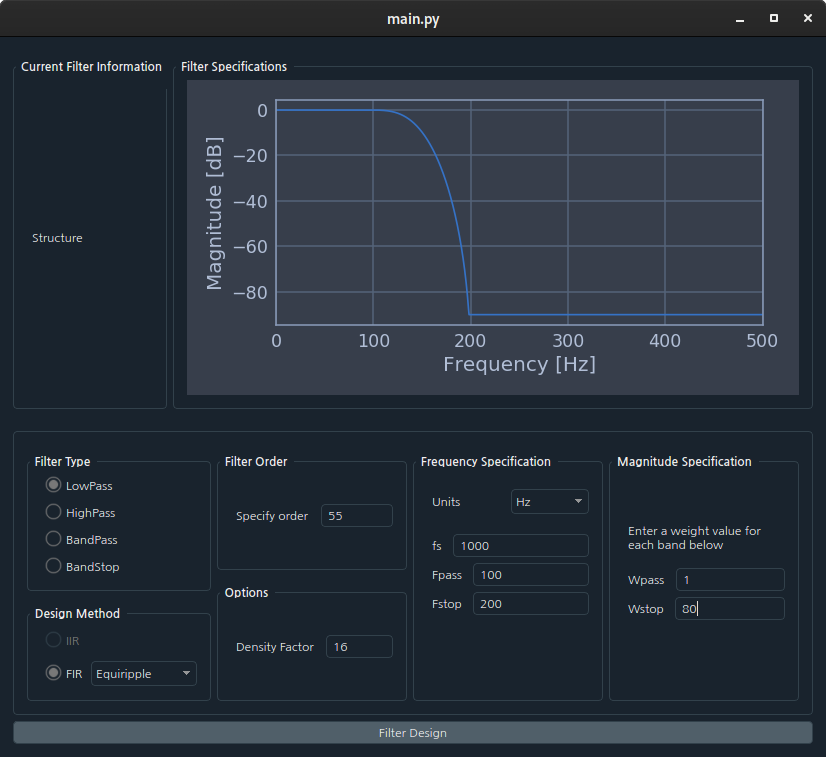
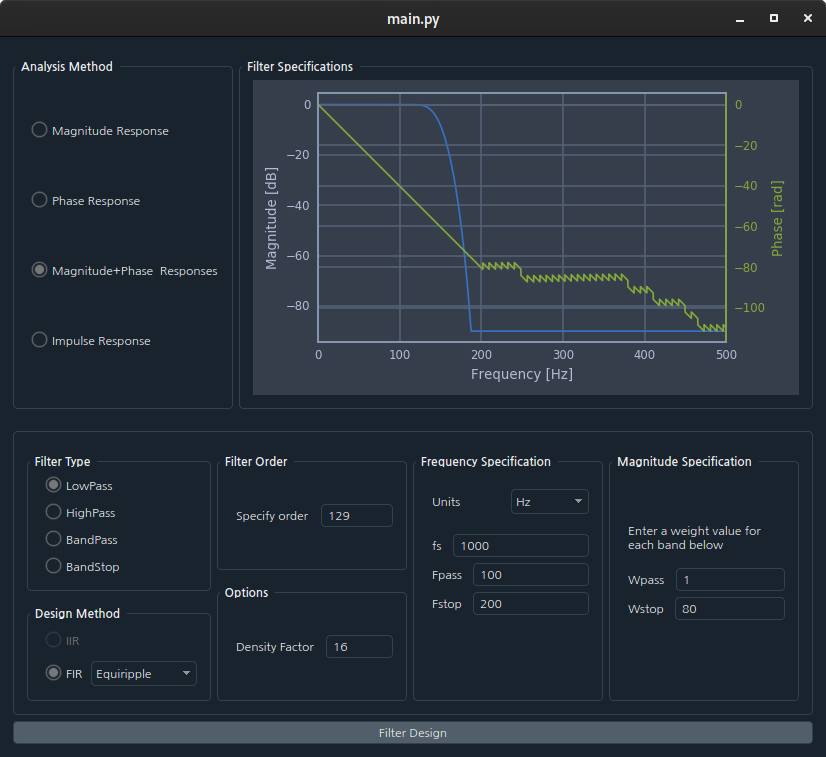
Add Analysis Method

diff --git a/filterdesigner/filterdesign/filterwidget.py b/filterdesigner/filterdesign/filterwidget.py
@@ -21,7 +21,13 @@ from qtpy.QtWidgets import (QVBoxLayout, QHBoxLayout, QWidget, QGroupBox,
 from filterdesigner.filterbase import (TYPE_LPF, TYPE_HPF, TYPE_BPF, TYPE_BSF,
                                        METHOD_IIR, METHOD_FIR)
 from filterdesigner.filterdesign.fir import EquiRipple, LeastSquare
-from filterdesigner.helper.signal import magnitude_of_frequency_response
+from filterdesigner.helper.signal import frequency_response
+
+
+ANALYSIS_MAG = 0
+ANALYSIS_PHASE = 1
+ANALYSIS_MAG_PHASE = 2
+ANALYSIS_IMPULSE = 3
 
 
 class FilterDesignWidget(QWidget):
@@ -37,9 +43,26 @@ class FilterDesignWidget(QWidget):
         self.taps: ndarray = zeros(1)
         self.fs: float = 0
 
+        # Analysis Method
+        self.analysis_method_radio_group = QButtonGroup(self)
+        self.analysis_method_radio_group.buttonClicked.connect(self.plot_filter)
+        self.radio_mag = QRadioButton("Magnitude Response", self)
+        self.radio_phase = QRadioButton("Phase Response", self)
+        self.radio_mag_phase = QRadioButton("Magnitude+Phase  Responses", self)
+        self.radio_impulse = QRadioButton("Impulse Response", self)
+        self.analysis_method_radio_group.addButton(self.radio_mag,
+                                                   ANALYSIS_MAG)
+        self.analysis_method_radio_group.addButton(self.radio_phase,
+                                                   ANALYSIS_PHASE)
+        self.analysis_method_radio_group.addButton(self.radio_mag_phase,
+                                                   ANALYSIS_MAG_PHASE)
+        self.analysis_method_radio_group.addButton(self.radio_impulse,
+                                                   ANALYSIS_IMPULSE)
+
         # Figure
         self.fig = Figure()
         self.ax = self.fig.add_subplot(111)
+        self.ax_twin = self.ax.twinx()
         self.canvas = FigureCanvasQTAgg(self.fig)
         self.init_plot()
 
@@ -113,7 +136,7 @@ class FilterDesignWidget(QWidget):
         base_layout.addLayout(bottom_hbox)
         base_layout.addWidget(self.push_design)
 
-        upper_hbox.addWidget(self.group_description())
+        upper_hbox.addWidget(self.group_analysis_method())
         upper_hbox.addWidget(self.group_figure())
 
         bottom_hbox.addWidget(self.group_bottom())
@@ -127,6 +150,12 @@ class FilterDesignWidget(QWidget):
         self.combo_fir.currentIndexChanged.connect(self.change_ui)
         self.change_ui()
 
+    def clear_axes(self):
+        self.ax.clear()
+        self.ax_twin.clear()
+        self.ax_twin.set_frame_on(False)
+        self.ax_twin.get_yaxis().set_visible(False)
+
     def select_filter_type(self):
         filter_instance = self.get_filter()
 
@@ -134,18 +163,23 @@ class FilterDesignWidget(QWidget):
         filter_instance.set_ui_options(filter_type)
 
     def init_plot(self):
-        self.ax.clear()
+        self.clear_axes()
         self.fig.tight_layout()
 
-    def group_description(self):
+    def group_analysis_method(self):
         """Generate GroupBox for Description."""
         vbox = QVBoxLayout()
-        vbox.addWidget(QLabel("Structure"))
+
+        vbox.addWidget(self.radio_mag)
+        vbox.addWidget(self.radio_phase)
+        vbox.addWidget(self.radio_mag_phase)
+        vbox.addWidget(self.radio_impulse)
+        self.radio_mag.setChecked(True)
 
         group = QGroupBox(self)
         group.setLayout(vbox)
-        group.setTitle("Current Filter Information")
-        group.setMaximumWidth(400)
+        group.setTitle("Analysis Method")
+        group.setFixedWidth(220)
 
         return group
 
@@ -237,7 +271,7 @@ class FilterDesignWidget(QWidget):
 
         filter_type = self.type_radio_group.checkedId()
 
-        self.ax.clear()
+        self.clear_axes()
         try:
             self.taps, self.fs = filter_instance.calc_filter(filter_type)
             self.plot_filter()
@@ -254,15 +288,47 @@ class FilterDesignWidget(QWidget):
            (len(self.taps) < 2):
             return
 
-        mag_fre_db, fre = magnitude_of_frequency_response(
-            self.taps, self.fs, 1024)
+        self.clear_axes()
 
+        mag_fre_db, phase_fre_rad, fre = frequency_response(
+            self.taps, self.fs, 1024)
         unit = self.freq_unit_combo.itemText(
             self.freq_unit_combo.currentIndex())
-        self.ax.plot(fre, mag_fre_db)
-        self.ax.set_ylabel("Magnitude [dB]")
-        self.ax.set_xlabel(f"Frequency [{unit}]")
-        self.ax.set_xlim([0, self.fs / 2])
+
+        check_id = self.analysis_method_radio_group.checkedId()
+        if check_id == ANALYSIS_MAG:
+            self.ax.plot(fre, mag_fre_db)
+            self.ax.set_ylabel("Magnitude [dB]")
+            self.ax.set_xlabel(f"Frequency [{unit}]")
+            self.ax.set_xlim([0, self.fs / 2])
+        elif check_id == ANALYSIS_PHASE:
+            self.ax.plot(fre, phase_fre_rad)
+            self.ax.set_ylabel("Phase [rad]")
+            self.ax.set_xlabel(f"Frequency [{unit}]")
+            self.ax.set_xlim([0, self.fs / 2])
+        elif check_id == ANALYSIS_MAG_PHASE:
+            self.ax.plot(fre, mag_fre_db)
+
+            line_right = self.ax_twin.plot(fre, phase_fre_rad, '-g')
+            self.ax_twin.yaxis.label.set_color(line_right[0].get_color())
+            self.ax_twin.tick_params(axis='y', colors=line_right[0].get_color())
+            self.ax_twin.spines["right"].set_edgecolor(line_right[0].get_color())
+            self.ax_twin.set_ylabel("Phase [rad]")
+            self.ax_twin.get_yaxis().set_visible(True)
+            self.ax_twin.set_frame_on(True)
+
+            self.ax.set_ylabel("Magnitude [dB]")
+            self.ax.set_xlabel(f"Frequency [{unit}]")
+            self.ax.set_xlim([0, self.fs / 2])
+
+        elif check_id == ANALYSIS_IMPULSE:
+            self.ax.stem(self.taps)
+            self.ax.set_ylabel("Amplitude")
+            self.ax.set_xlabel(f"[sample]")
+            self.ax.set_xlim([0, len(self.taps) - 1])
+
+        self.fig.tight_layout()
+        self.fig.canvas.draw()
 
     def resizeEvent(self, event):
         """Override resizeEvent of Qt."""

diff --git a/filterdesigner/helper/signal.py b/filterdesigner/helper/signal.py
@@ -5,7 +5,7 @@
 """."""
 
 import numpy as np
-from numpy import ndarray, arange
+from numpy import ndarray, arange, angle, rad2deg, unwrap
 from numpy.fft import fft
 
 
@@ -45,7 +45,7 @@ def db2(data, db_range=60.0, db_cut=None, b_normalize=True):
     return db_data
 
 
-def magnitude_of_frequency_response(data, fs, uprate):
+def frequency_response(data, fs, uprate):
     """
 
     Parameters
@@ -57,13 +57,15 @@ def magnitude_of_frequency_response(data, fs, uprate):
 
     Returns
     -------
-    (ndarray, ndarray)
-        mag_fre_db, frequnecy
+    (ndarray, ndarray, ndarray)
+        mag_fre_db, phase_fre_rad, frequnecy
     """
-    mag_fre = fft(data, len(data) * uprate)
-    mag_fre_db = db2(mag_fre, 90)[:len(mag_fre)//2]
+    response = fft(data, len(data) * uprate)
+    mag_db = db2(response, 90)[:len(response)//2]
+    phase_rad = angle(response)[:len(response) // 2]
+    phase_rad = unwrap(phase_rad)
 
-    n_sample = len(mag_fre_db)
+    n_sample = len(mag_db)
     frequency = arange(n_sample) / n_sample * fs / 2
 
-    return mag_fre_db, frequency
+    return mag_db, phase_rad, frequency

diff --git a/filterdesigner/main.py b/filterdesigner/main.py
@@ -21,9 +21,9 @@ class QDesignerMainWindow(QMainWindow):
         super(QDesignerMainWindow, self).__init__(parent)
 
         if CONF.dark_theme:
-            jtplot.style('onedork')
+            jtplot.style('onedork', fscale=0.8)
         else:
-            jtplot.style('grade3')
+            jtplot.style('grade3', fscale=0.8)
         self.stacked_widget = QStackedWidget(self)
 
         # Widget Add

diff --git a/filterdesigner/config.py b/filterdesigner/config.py
@@ -4,7 +4,7 @@
 
 class UserConfig(object):
     """"""
-    dark_theme: bool = False
+    dark_theme: bool = True
 
     def __init__(self):
         """Init."""
